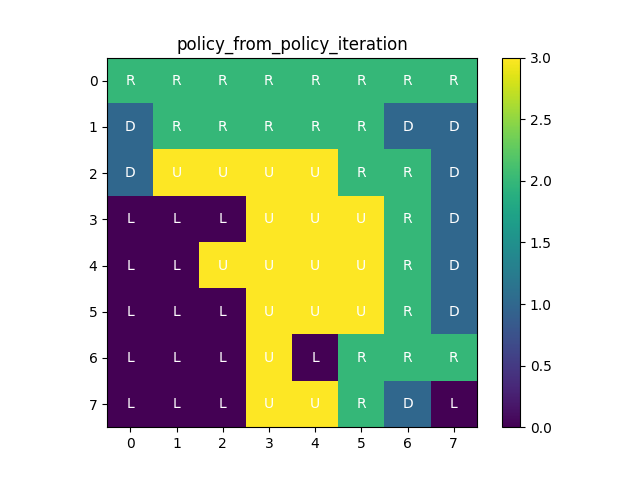
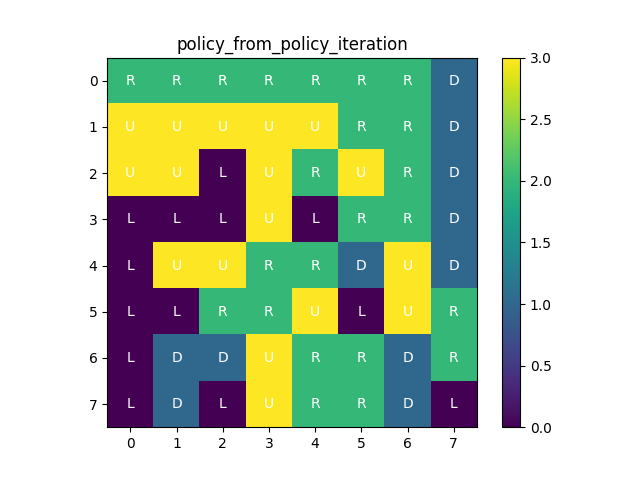
started q3.2.4

Changed region(s): [[0.1562, 0.125, 0.75, 0.9062]]

diff --git a/hw4/code/rl.py b/hw4/code/rl.py
@@ -92,29 +92,42 @@ def policy_from_value_function(env, value_function, gamma):
     """
     A = env.nA
     S = env.nS
-    
-    def Qat(s, a):
-      cs, r, done, P = env.step(a)
-      T = env.generateTransitionMatrices()
-      v = 0.0
-      for ns in range(s, S):
-        v += T[s, a, ns] * (r + gamma * value_function[ns])
-      return v
-      
+    P = env.P
     policy = np.zeros(shape=(S, 1), dtype=np.float32)
     
+    # def Qat(s, a):
+    #   cs, r, done, P = env.step(a)
+    #   T = env.generateTransitionMatrices()
+    #   v = 0.0
+    #   for ns in range(s, S):
+    #     v += T[s, a, ns] * (r + gamma * value_function[ns])
+    #   return v
+      
+    
+    # for s in range(S):
+    #   q = np.zeros(shape=(4, 1), dtype=np.float32)
+    #   for a in range(A):
+    #     q[a] = Qat(s, a)
+    #   policy[s] = np.argmax(q)
+    
     for s in range(S):
-      q = np.zeros(shape=(4, 1), dtype=np.float32)
-      
+      max_va = np.iinfo(np.int).min
+      max_ac = policy[s]
       for a in range(A):
-        q[a] = Qat(s, a)
+        transition = P[s][a]
+        v = 0.0
+        for p, ns, r, done in transition:
+          v += p * (r + gamma * value_function[ns]) 
         
-      policy[s] = np.argmax(q)
-      
+        if max_va < v:  
+          max_va = v
+          max_ac = a
+          
+      policy[s] = max_ac
     return policy
 
 
-def policy_iteration(env, gamma, max_iterations=int(1e3), tol=1e-3):
+def policy_iteration(env, gamma, max_iterations=int(1e4), tol=1e-3):
   """
     Q3.2.2: BONUS
     This implements policy iteration for learning a policy given an environment.
@@ -203,7 +216,7 @@ def policy_iteration(env, gamma, max_iterations=int(1e3), tol=1e-3):
   policy_stable = False
   n_iter = 0
   while not policy_stable and n_iter < max_iterations:
-    if n_iter % 50 == 0:
+    if n_iter % 500 == 0:
       print(f"** step: [{n_iter}/{max_iterations}]")
       
     V = evaluate_policy()
@@ -214,8 +227,8 @@ def policy_iteration(env, gamma, max_iterations=int(1e3), tol=1e-3):
   return V, n_iter
 
 
-def td_zero(env, gamma, policy, alpha):
-    """
+def td_zero(env, gamma, policy, alpha, neps=int(1e4)):
+  """
     Q3.2.2
     This implements TD(0) for calculating the value function given a policy.
 
@@ -234,14 +247,36 @@ def td_zero(env, gamma, policy, alpha):
     Output:
       numpy.ndarray
       value_function:  Policy value function
-    """
+  """
+  S = env.nS
+  V = np.random.rand(S)
+    
+  # for each episode
+  for e in range(neps):
+      
+    # initialize S
+    state = env.reset()
+      
+    # for each step on episode
+    done = False 
+    while not done:
+      # get action given by policy
+      action = int(policy[state][0])
+      # take action, observe reward and next state
+      next_state, reward, done, _ = env.step(action)
+      # update value 
+      V[state] += alpha * (reward + gamma * V[next_state] - V[state])
+      # update state
+      state = next_state
+        
+    if e % 100 == 0:
+      print(f"num episodes: {e}/{neps}")
+        
+  return V
 
-    ## YOUR CODE HERE ##
-    raise NotImplementedError()
 
-
-def n_step_td(env, gamma, policy, alpha, n):
-    """
+def n_step_td(env, gamma, policy, alpha, n, neps=int(1e3)):
+  """
     Q3.2.4: BONUS
     This implements n-step TD for calculating the value function given a policy.
 
@@ -262,13 +297,49 @@ def n_step_td(env, gamma, policy, alpha, n):
     Output:
       numpy.ndarray
       value_function:  Policy value function
-    """
+  """
+  V = np.random.rand(env.nS)
+  
+  # for each episode
+  for e in range(neps):
+    # initialize S
+    T = np.iinfo(np.int).max
+    state = env.reset()
+    S = [state]
+    R = [0]
+    
+    t, tau = 0, 0
+    while tau < T - 1:
+      if t < T:
+        # take action given by policy
+        action = int(policy[S[t]][0])
+        # observe and store next reward as and next state
+        next_state, reward, done, _ = env.step(action)
+        R.append(reward)
+        S.append(next_state)
+        # if next state is terminal 
+        if done:
+          T = t + 1
+      
+      # tau - time whose state's estimate is being updated
+      tau = t - n + 1
+      if tau >= 0:
+        h = np.minimum(tau+n, T)
+        l = tau + 1
+        G = 0.0
+        for i in range(l, h):
+          G += gamma**(i-tau-1) * R[i]
+          if tau + n < T:
+            G += gamma**n * V[S[tau+n]]
+          V[S[tau]] += alpha * (G - V[S[tau]])
+        
+      t += 1
+    if e % 100 == 0:
+      print(f"num episodes: {e}/{neps}")
+    
+  return V
 
-    ## BONUS QUESTION ##
-    ## YOUR CODE HERE ##
-    raise NotImplementedError()
-
-def plot(X, title, text=None, dec=4):
+def plot(X, title, text=None, dec=2):
   ax = plt.gca()
   im = ax.imshow(X)
   cbar = ax.figure.colorbar(im, ax=ax)
@@ -302,32 +373,30 @@ if __name__ == "__main__":
   # Q3.2.1
   print(f"\n** q3.2.1 value iteration")
   V_vi, n_iter = value_iteration(env, gamma)
-  plot(V_vi.reshape(gw, gh), 
-       title='value_iteration')
-  print(f"value iteration converged after {n_iter} steps")
+  # plot(V_vi.reshape(gw, gh), title='value_iteration')
+  # print(f"value iteration converged after {n_iter} steps")
   policy = policy_from_value_function(env, V_vi, gamma)
-  plot(policy.reshape(gw, gh), 
-       title='policy_from_value_iteration', 
-       text=action_names)
+  # plot(policy.reshape(gw, gh), title='policy_from_value_iteration', text=action_names)
 
 
   # Q3.2.2: BONUS
-  print(f"\n** q3.2.2 policy iteration")
-  V_pi, n_iter = policy_iteration(env, gamma)
-  plot(V_pi.reshape(gw, gh), 
-       title='policy_iteration')
-  policy = policy_from_value_function(env, V_pi, gamma)
-  plot(policy.reshape(gw, gh), 
-       title='policy_from_policy_iteration', 
-       text=action_names)
-  
+  # print(f"\n** q3.2.2 policy iteration")
+  # V_pi, n_iter = policy_iteration(env, gamma)
   # print(f"policy iteration converged after {n_iter} steps")
-  # plot(policy.reshape(gw, gh), 
-  #      title='policy_from_value_iteration', 
-  #      text=action_names)
+  # plot(V_pi.reshape(gw, gh), title='policy_iteration')
+  # ppolicy = policy_from_value_function(env, V_pi, gamma)
+  # plot(ppolicy.reshape(gw, gh), title='policy_from_policy_iteration', text=action_names)
 
   # Q3.2.3
+  # print(f"\n** q3.2.3 TD 0")
   # V_td = td_zero(env, gamma, policy, alpha)
-
+  # plot(V_td.reshape(gw, gh), title='td_zero')
+  
   # Q3.2.4: BONUS
+  print(f"\n** q3.2.4 TD n")
+  V_ntd = n_step_td(env, gamma, policy, alpha, n)
+  plot(V_ntd.reshape(gw, gh), title=f'td_{n}')
+  
+  # n = 1
   # V_ntd = n_step_td(env, gamma, policy, alpha, n)
+  # plot(V_ntd.reshape(gw, gh), title=f'td_{n}')
